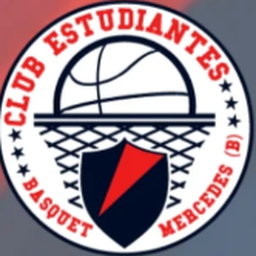
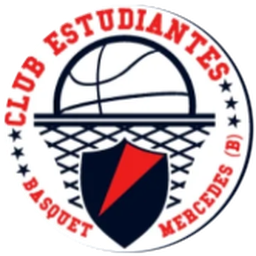
fix(landing): clean transparent circular crest, fix typography and compact fixture cards

Changed region(s): [[0.0, 0.0, 1.0, 1.0]]

diff --git a/src/app/page.tsx b/src/app/page.tsx
@@ -265,7 +265,7 @@ export default async function LandingPage() {
               {[
                 { name: "Escuelita & Pre-Mini", age: "4 a 9 años", desc: "Iniciación lúdica, coordinación y valores de equipo.", tag: "Masc / Fem" },
                 { name: "Mini Básquet", age: "10 a 12 años", desc: "Fundamentos técnicos, pase, dribling y juego colectivo.", tag: "Masc / Fem" },
-                { name: "Formatívas U13 & U15", age: "13 a 15 años", desc: "Inicio de competencia oficial, táctica y preparación física.", tag: "Masc / Fem" },
+                { name: "Formativas U13 & U15", age: "13 a 15 años", desc: "Inicio de competencia oficial, táctica y preparación física.", tag: "Masc / Fem" },
                 { name: "Juveniles U17 & U21", age: "16 a 21 años", desc: "Alta competencia de la liga, proyección y entrenamientos intensivos.", tag: "Masc / Fem" },
               ].map((c) => (
                 <div key={c.name} className="rounded-2xl border border-ink-800 bg-ink-900/60 p-5 space-y-2 hover:border-brand-500/40 transition">
@@ -337,10 +337,10 @@ export default async function LandingPage() {
                         <span className="text-ink-400">{formatDateTime(m.startsAt)}</span>
                       </div>
 
-                      <div className="flex items-center justify-between py-2 border-y border-ink-800">
+                      <div className="flex items-center justify-between gap-1.5 py-2.5 border-y border-ink-800">
                         {/* Estudiantes */}
-                        <div className="flex items-center gap-2">
-                          <div className="relative h-8 w-8 overflow-hidden rounded-full border border-ink-700 bg-white flex-shrink-0">
+                        <div className="flex items-center gap-1.5 min-w-0">
+                          <div className="relative h-7 w-7 overflow-hidden rounded-full border border-ink-700 bg-white flex-shrink-0">
                             <Image
                               src="/escudo-estudiantes-basquet-hd.png"
                               alt="Estudiantes"
@@ -348,17 +348,17 @@ export default async function LandingPage() {
                               className="object-contain p-0.5"
                             />
                           </div>
-                          <span className="text-xs font-bold text-white">Estudiantes</span>
+                          <span className="text-[11px] font-bold text-white truncate">CAE</span>
                         </div>
 
-                        <span className="text-xs font-black text-ink-500">VS</span>
+                        <span className="text-[10px] font-black text-amber-400/80 px-1">VS</span>
 
                         {/* Rival */}
-                        <div className="flex items-center gap-2">
-                          <span className="text-xs font-bold text-white truncate max-w-[80px]">
+                        <div className="flex items-center justify-end gap-1.5 min-w-0">
+                          <span className="text-[11px] font-bold text-white truncate text-right">
                             {m.rival}
                           </span>
-                          <div className="relative h-8 w-8 overflow-hidden rounded-full border border-ink-700 bg-white flex-shrink-0">
+                          <div className="relative h-7 w-7 overflow-hidden rounded-full border border-ink-700 bg-white flex-shrink-0">
                             <Image
                               src={rivalBadge}
                               alt={m.rival}

diff --git a/src/lib/venues.ts b/src/lib/venues.ts
@@ -28,7 +28,7 @@ export const HOME_VENUE: VenueInfo = {
   name: "Club Atlético Estudiantes",
   clubName: "Club Atlético Estudiantes de Mercedes",
   shortName: "Estudiantes",
-  badgeUrl: "/escudos/estudiantes.png",
+  badgeUrl: "/escudo-estudiantes-basquet-hd.png",
   courtName: "Estadio Centenario - Cancha 1",
   address: "Calle 33 N° 334",
   city: "Mercedes",
